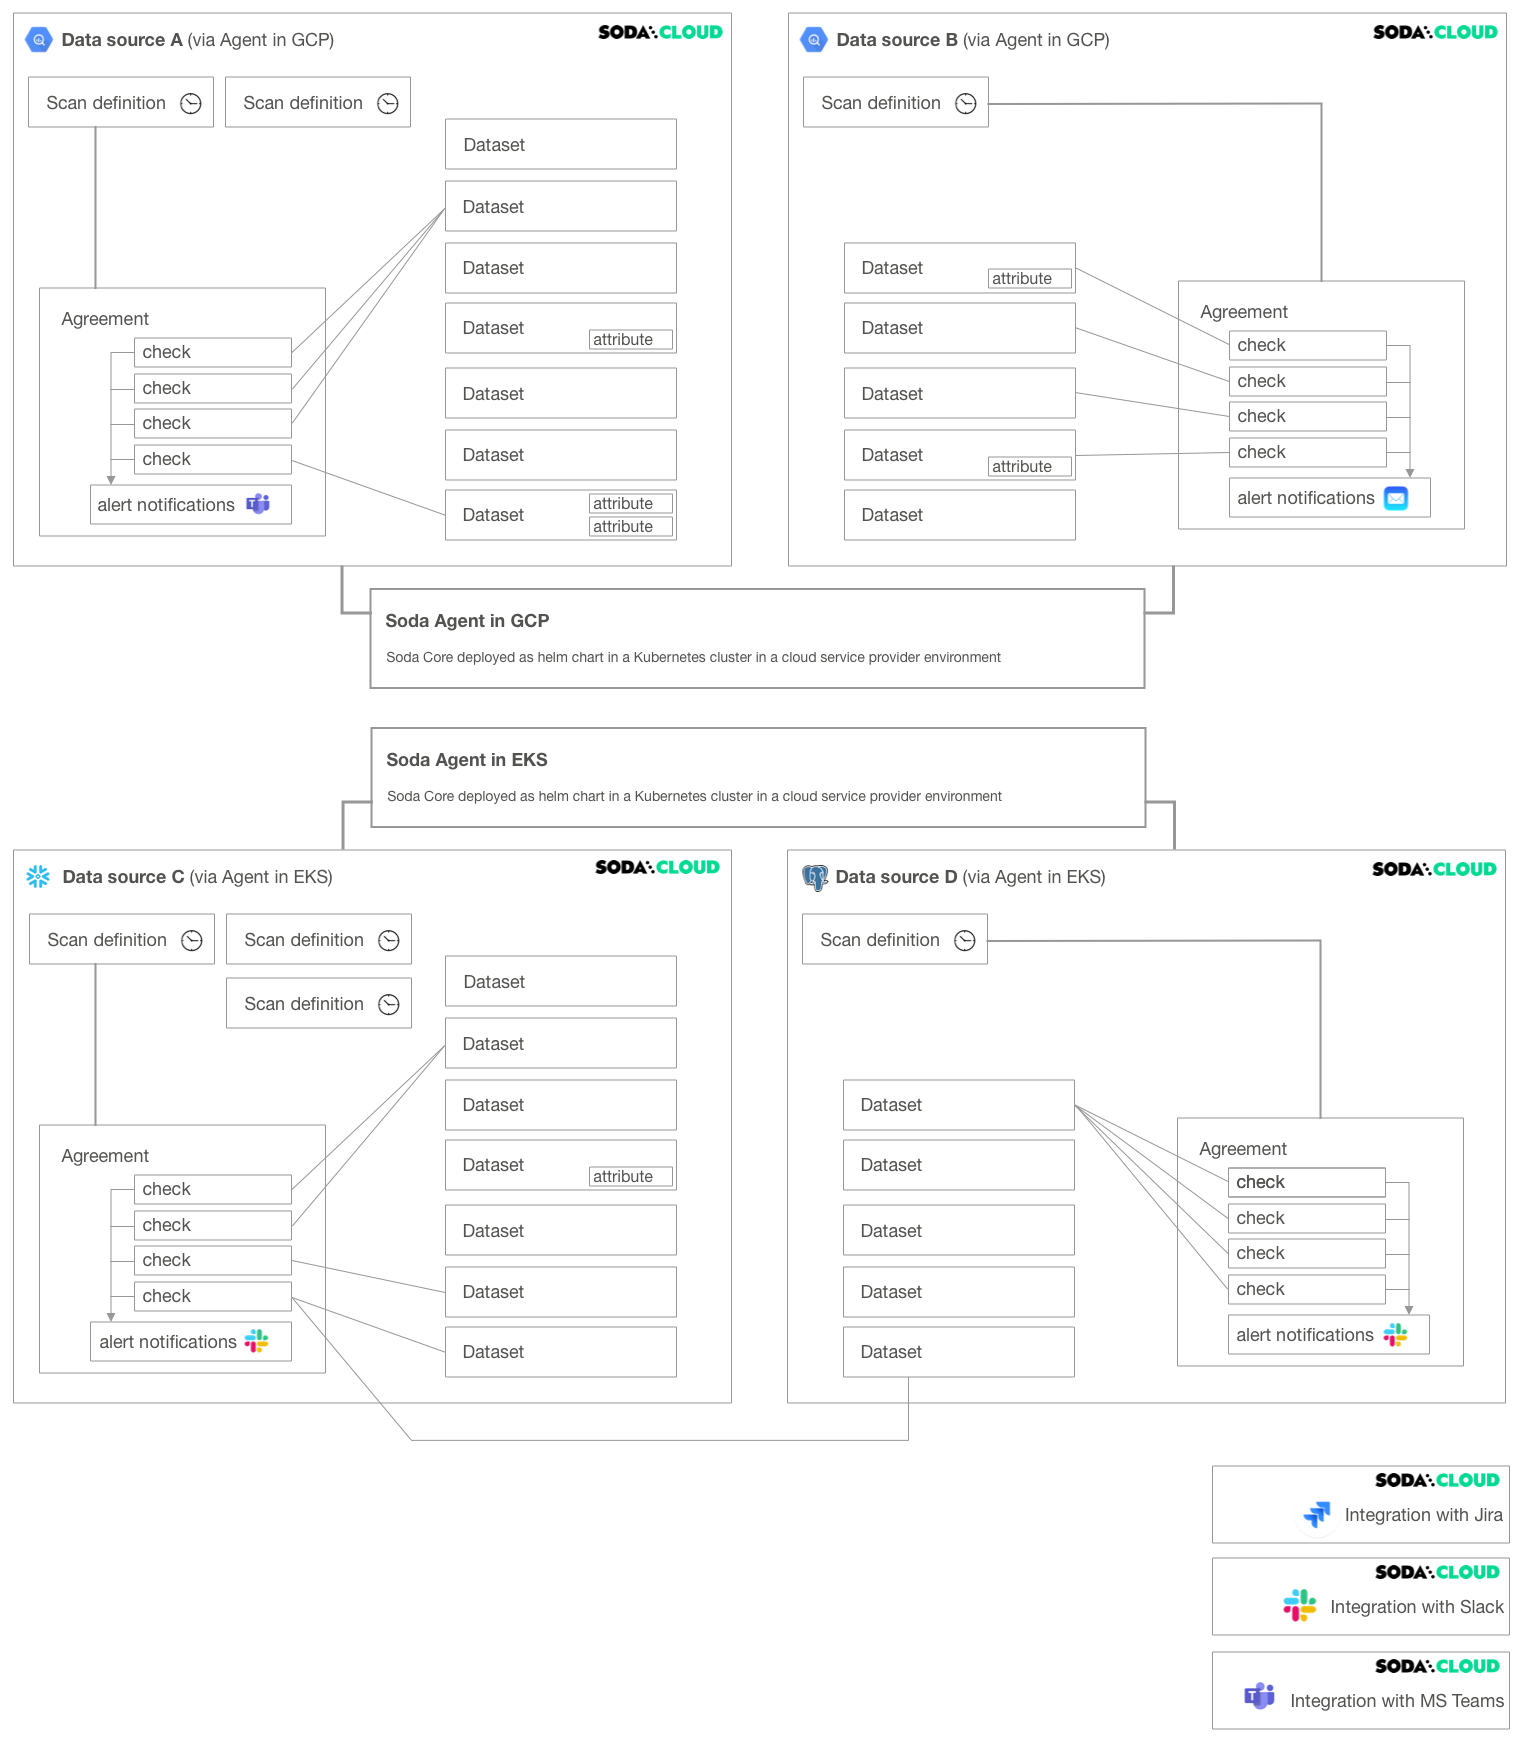
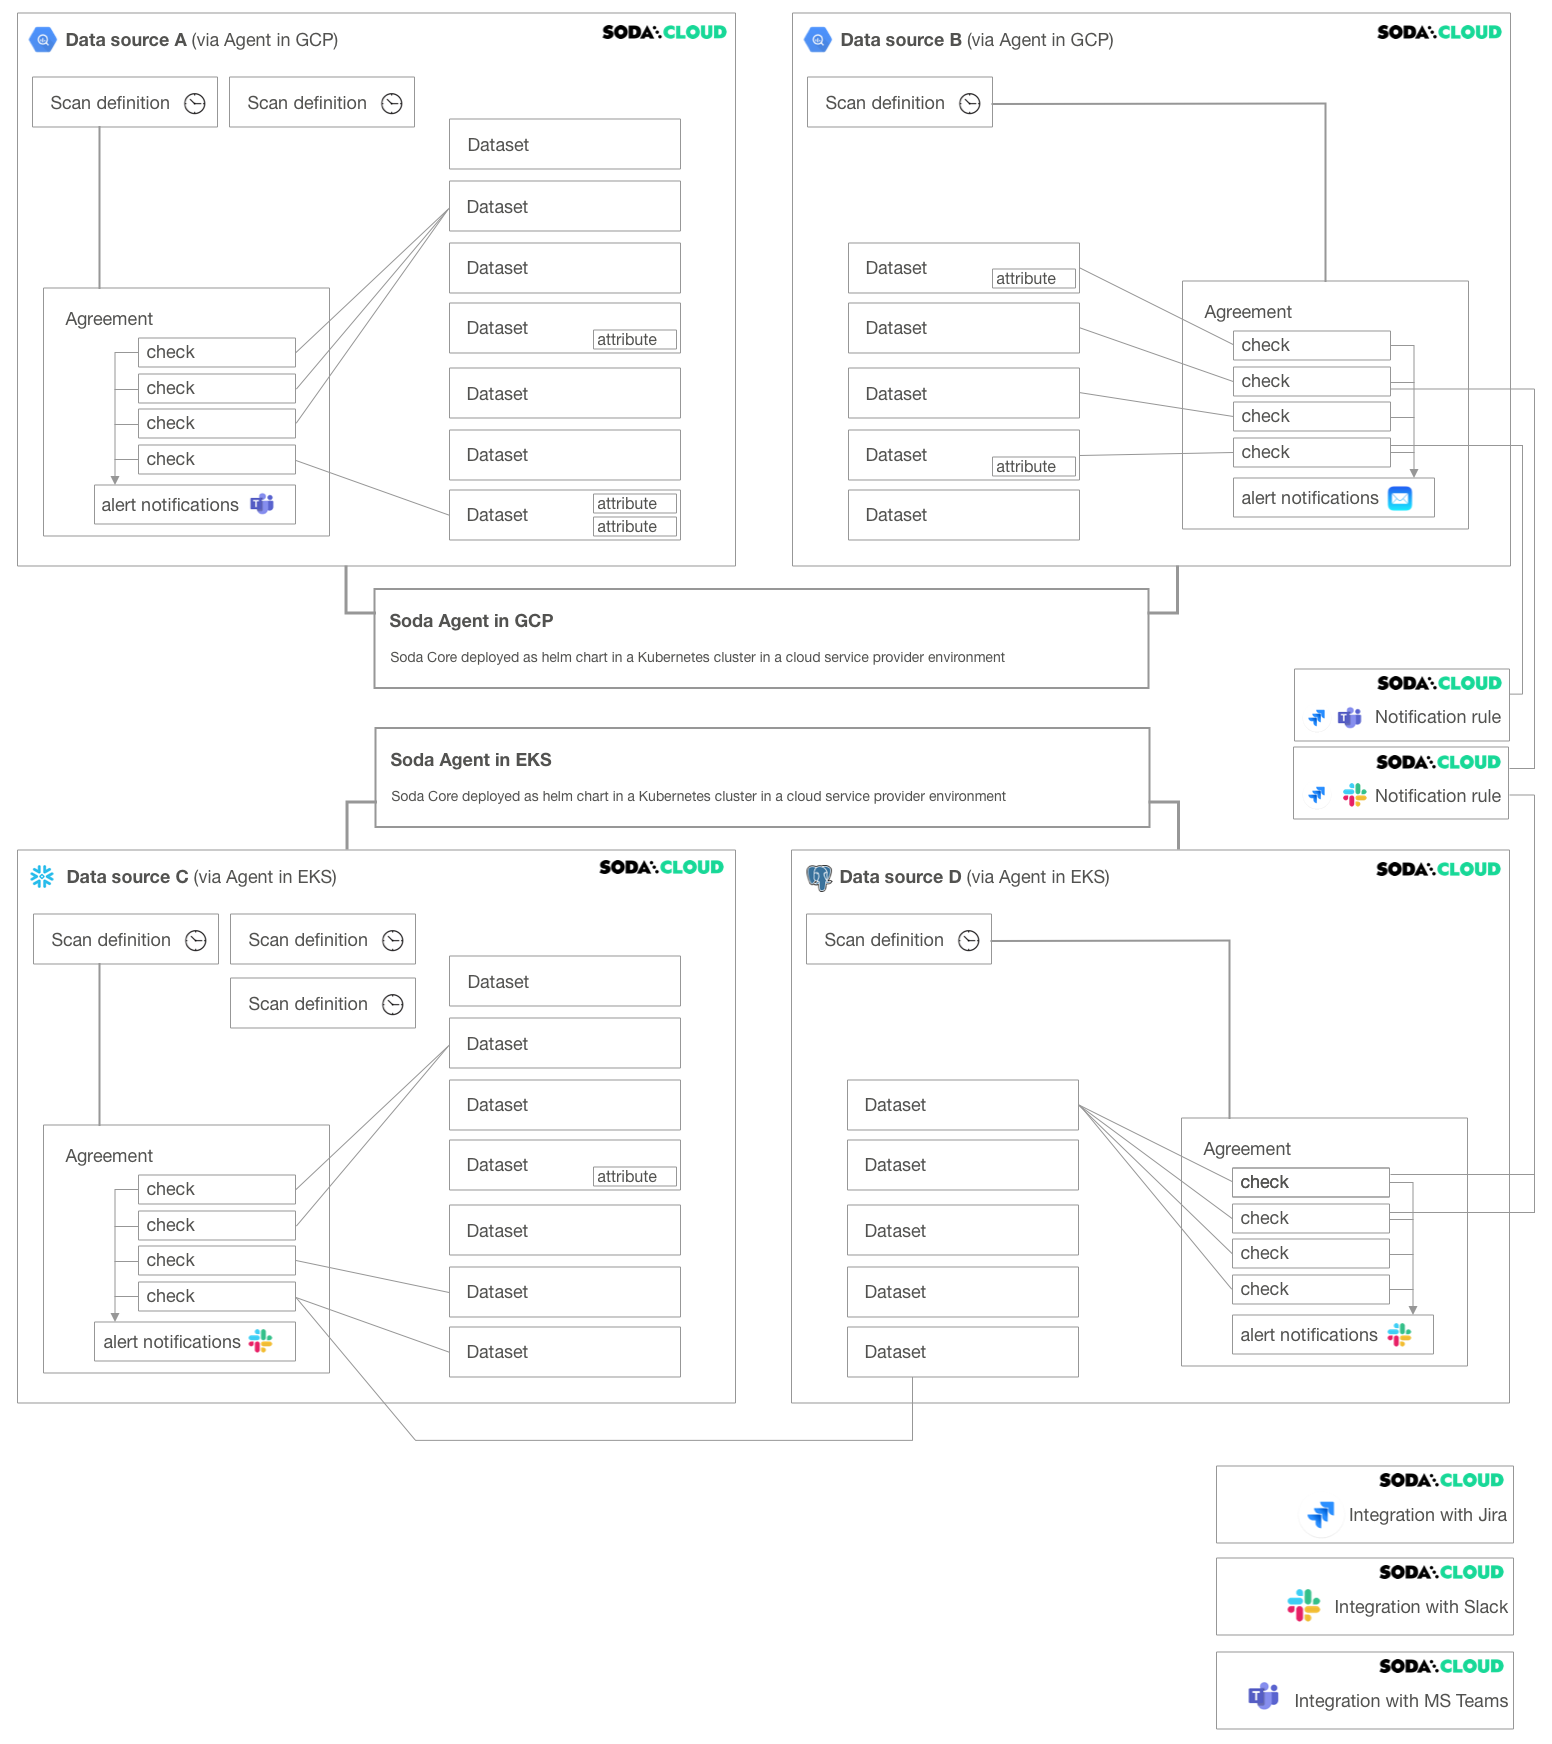
Updated resources to include notif rules

diff --git a/soda-cloud/resource-map.md b/soda-cloud/resource-map.md
@@ -20,7 +20,7 @@ It is helpful to understand these resources and how they relate, or connect, to 
 
 ## Example Soda Cloud deployment
 
-The following diagram illustrates an example deployment of a single Soda Cloud account with two Soda Agents, each of which connects to two data sources. A Soda Cloud Administrator has also created integrations with Slack, Jira (via a webhook), and MS Teams (coming soon).
+The following diagram illustrates an example deployment of a single Soda Cloud account with two Soda Agents, each of which connects to two data sources. A Soda Cloud Administrator has also created integrations with Slack, Jira (via a webhook), and MS Teams.
 
 ![example-deployment](/assets/images/example-deployment.png){:height="700px" width="700px"}
 
@@ -30,6 +30,7 @@ The following diagram illustrates an example deployment of a single Soda Cloud a
   * **scan definitions** which you use to define a Soda scan schedule for the data source. [Read more]({% link soda-cloud/add-datasource.md %}#1-attributes).
   * **agreements** in which you write **checks** to define what good data looks like. Agreements also specify where to send alert notifications when a check result warns or fails, such as to a Slack channel in your organization. [Read more]({% link soda-cloud/agreements.md %}).
 * An **integration** is a built-in Soda Cloud feature that enables you to connect with a third-party service provider, such as Slack. [Read more]({% link soda/integrate-slack.md %}).
+* A **notification rule** is a tool to bulk-edit where and when to send alert notifications when check results warn or fail. [Read more]({% link soda-cloud/notif-rules.md %}).
 
 <sup>†</sup> An exception to this rule exists when you configure Soda Cloud to collect sample data from a dataset, or samples of failed rows from a dataset when a check result fails.
 
